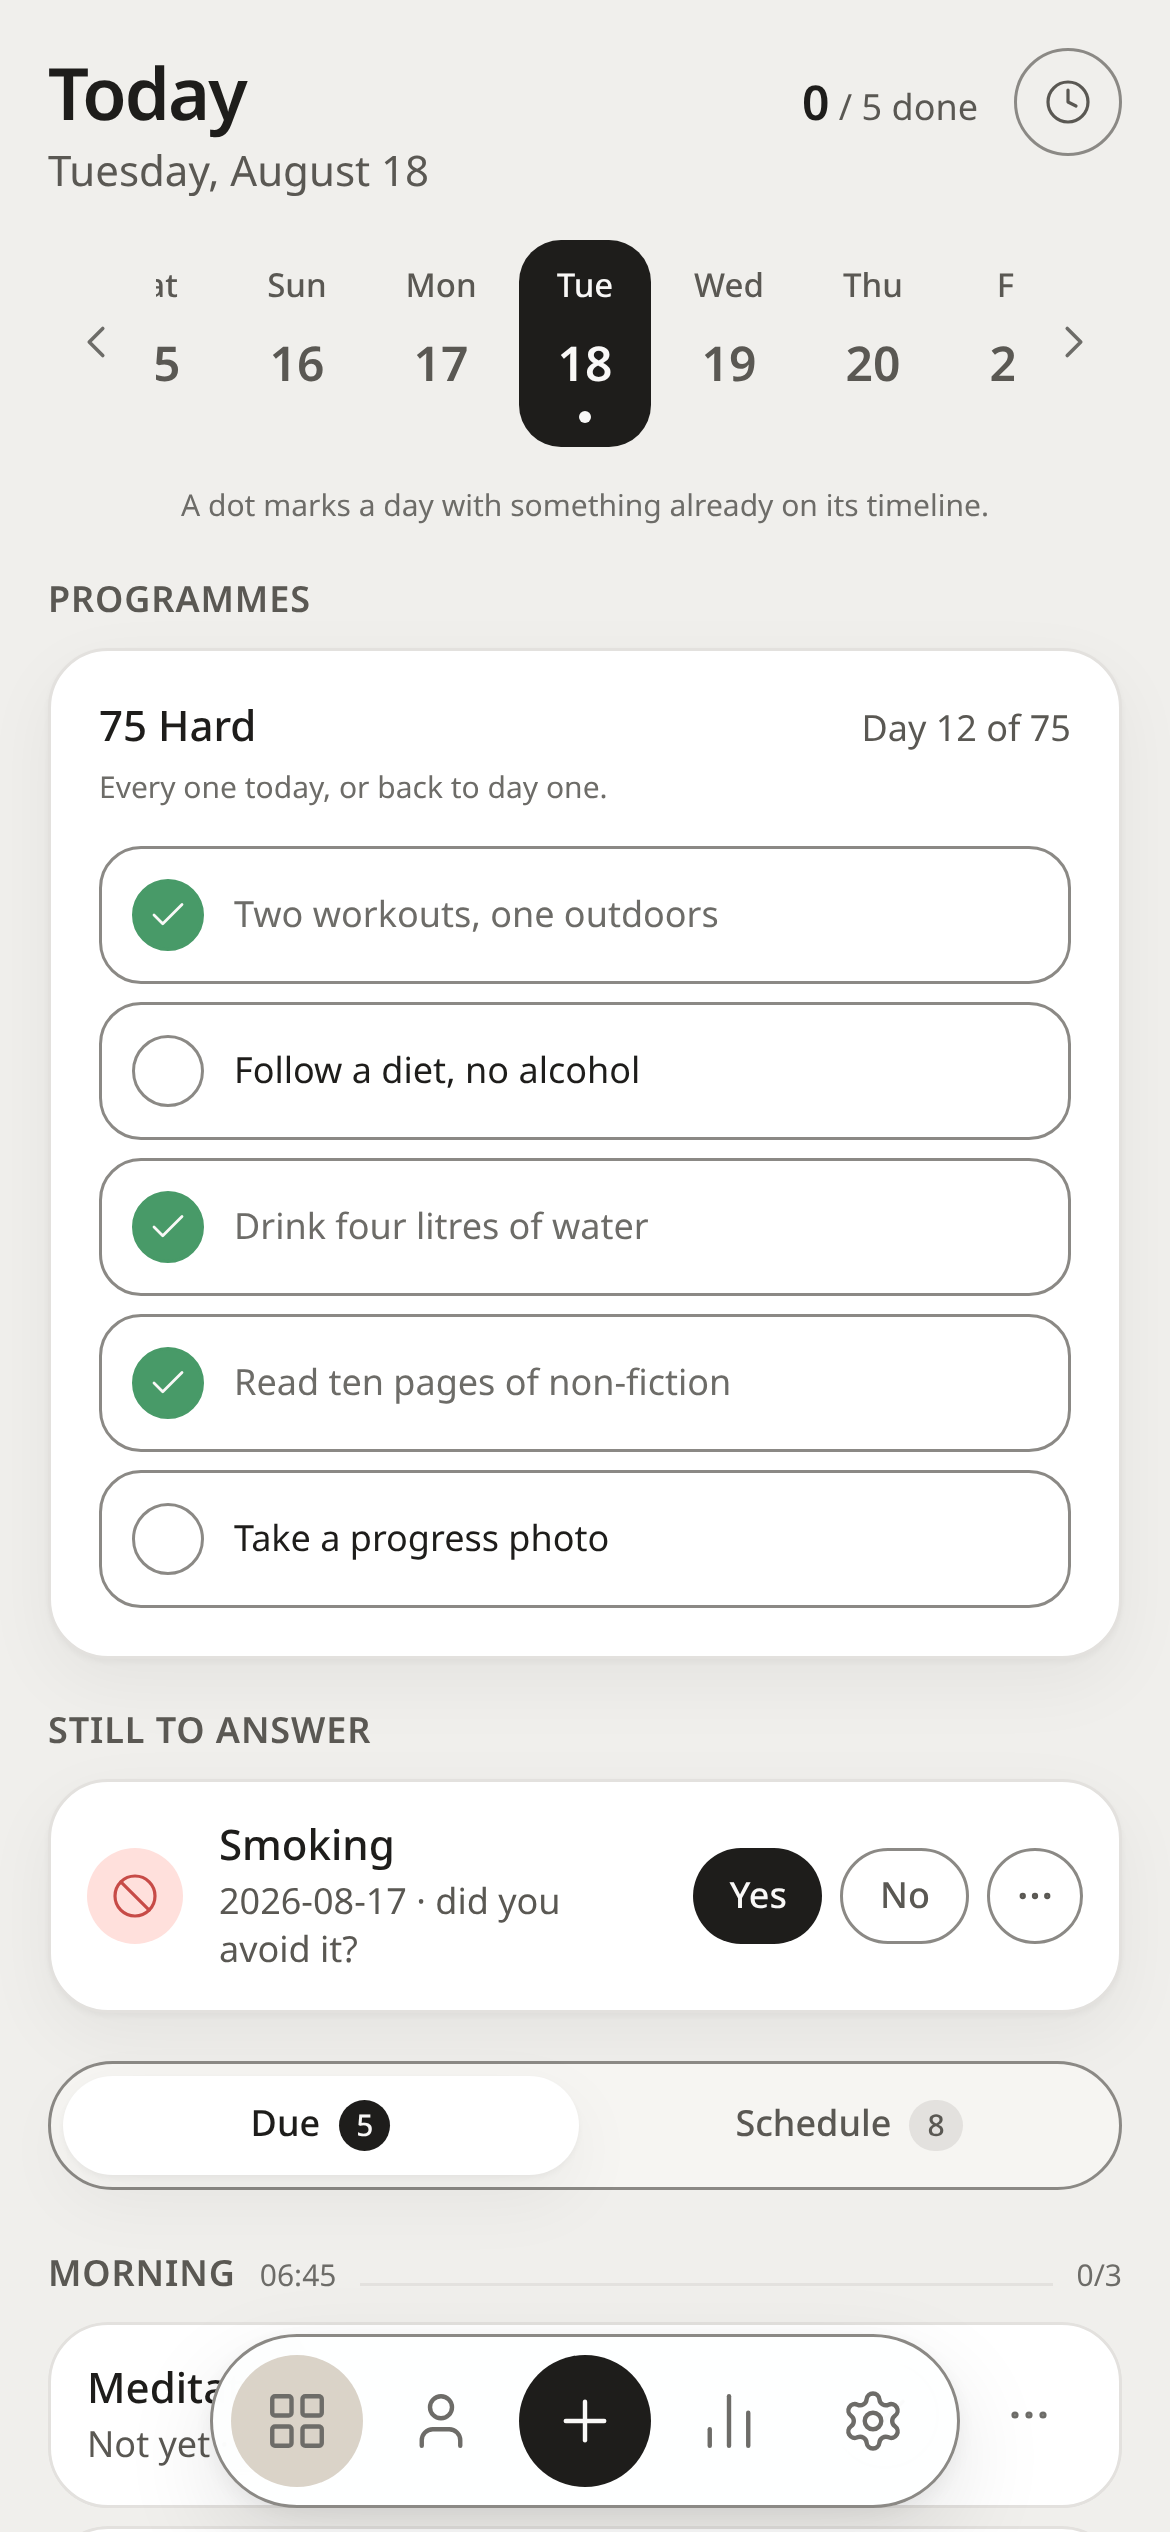
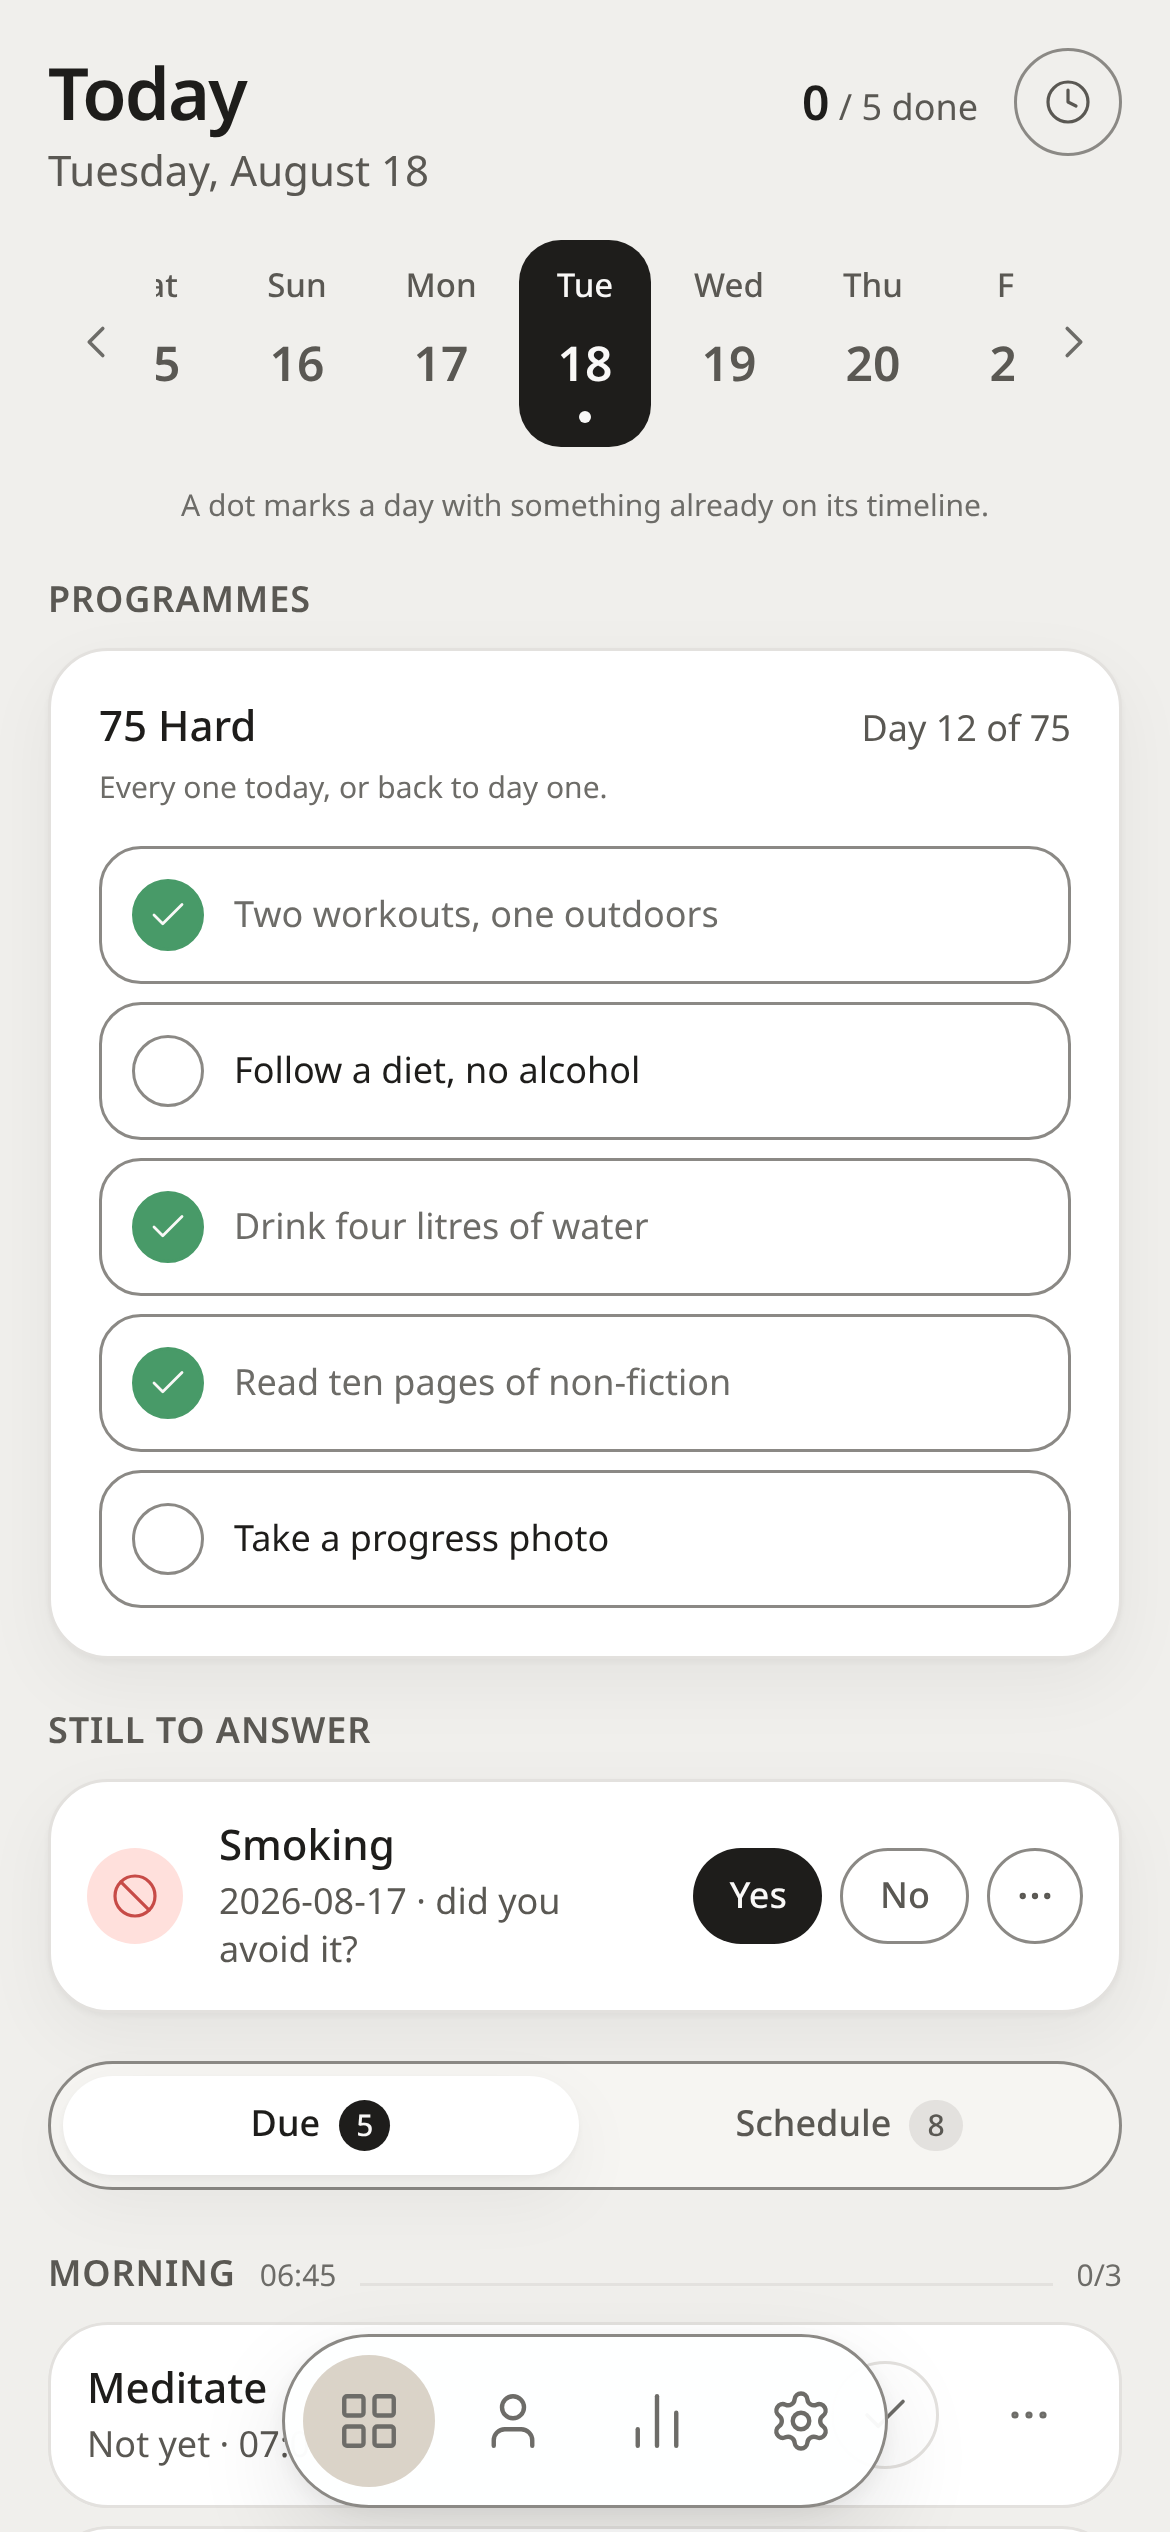
fix(capture): the worked example reckons days the way the app does
The plates showed a tab bar with a control in it that no longer exists, so they
were recaptured — and the recapture failed, which is the useful part.

The fixture built its dates with `toISOString().slice(0, 10)`. That is UTC, and
at half past ten at night here it is already tomorrow in UTC, so every generated
day landed one ahead. The row the fixture exists to produce — a quitting habit
still waiting to be judged this morning — had been answered before the camera
got to it.

The same one-liner is warned about by name in the e2e helper beside it. It is
the tempting version, it is wrong west of Greenwich in the evening and east of
it in the morning, and it only ever fails at the hours nobody is looking. The
app reckons a day the way the person living it does, and so must anything
pretending to be its data.

diff --git a/apps/tracker/e2e/support/worked-example.ts b/apps/tracker/e2e/support/worked-example.ts
@@ -41,8 +41,21 @@ function nextId(): string {
   return uuid(minted)
 }
 
+/**
+ * The local date, not the UTC one.
+ *
+ * `toISOString().slice(0, 10)` is the tempting one-liner and it is wrong for anybody west of
+ * Greenwich in the evening: at half past ten at night here it is already tomorrow in UTC, so
+ * every generated day landed one ahead and the row this fixture exists to produce — a quitting
+ * habit still waiting to be judged — was answered before it was captured. The app reckons a
+ * day the way the person living it does, and so must anything pretending to be its data.
+ */
 function iso(date: Date): string {
-  return date.toISOString().slice(0, 10)
+  return [
+    date.getFullYear(),
+    String(date.getMonth() + 1).padStart(2, '0'),
+    String(date.getDate()).padStart(2, '0'),
+  ].join('-')
 }
 
 function shift(from: Date, days: number): Date {
